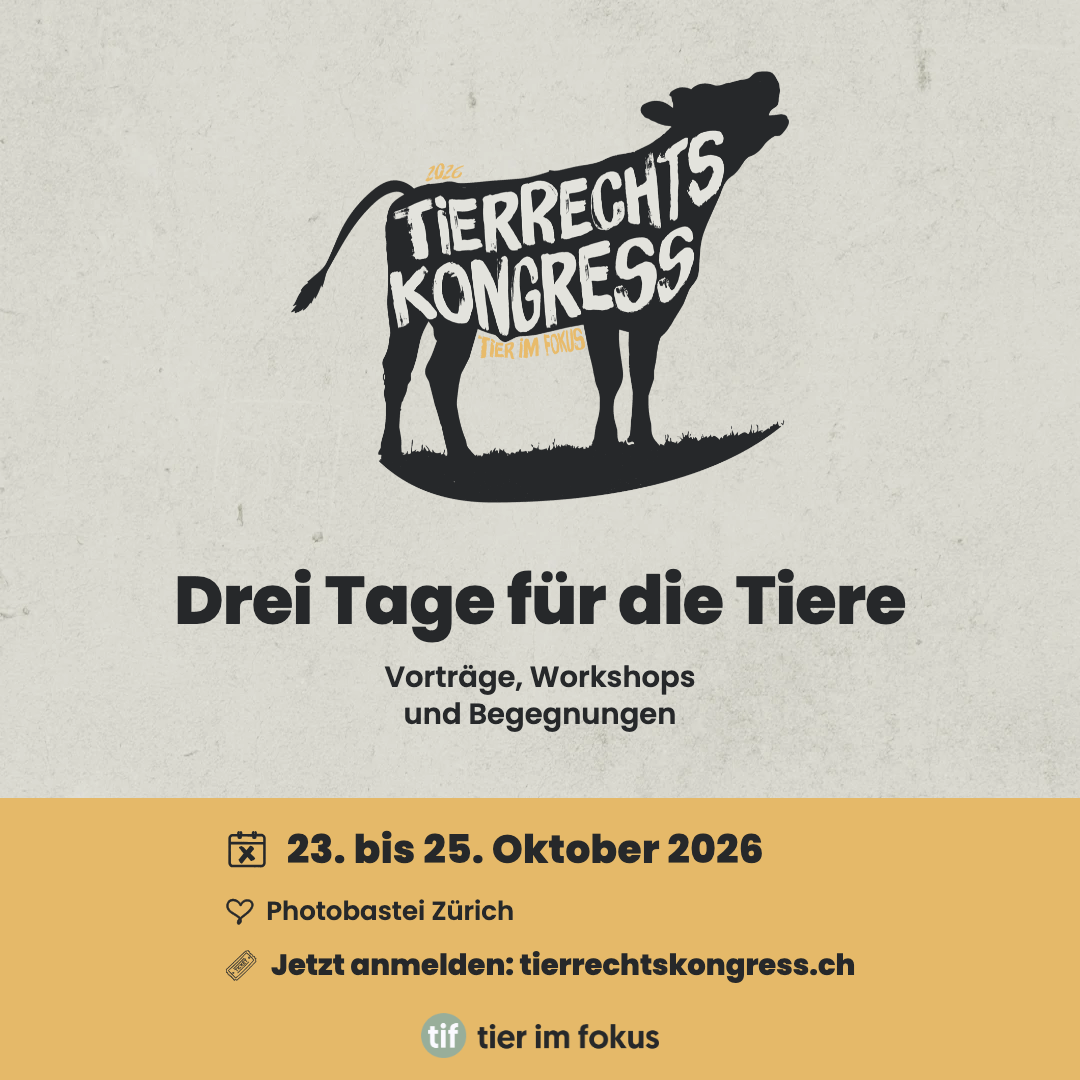
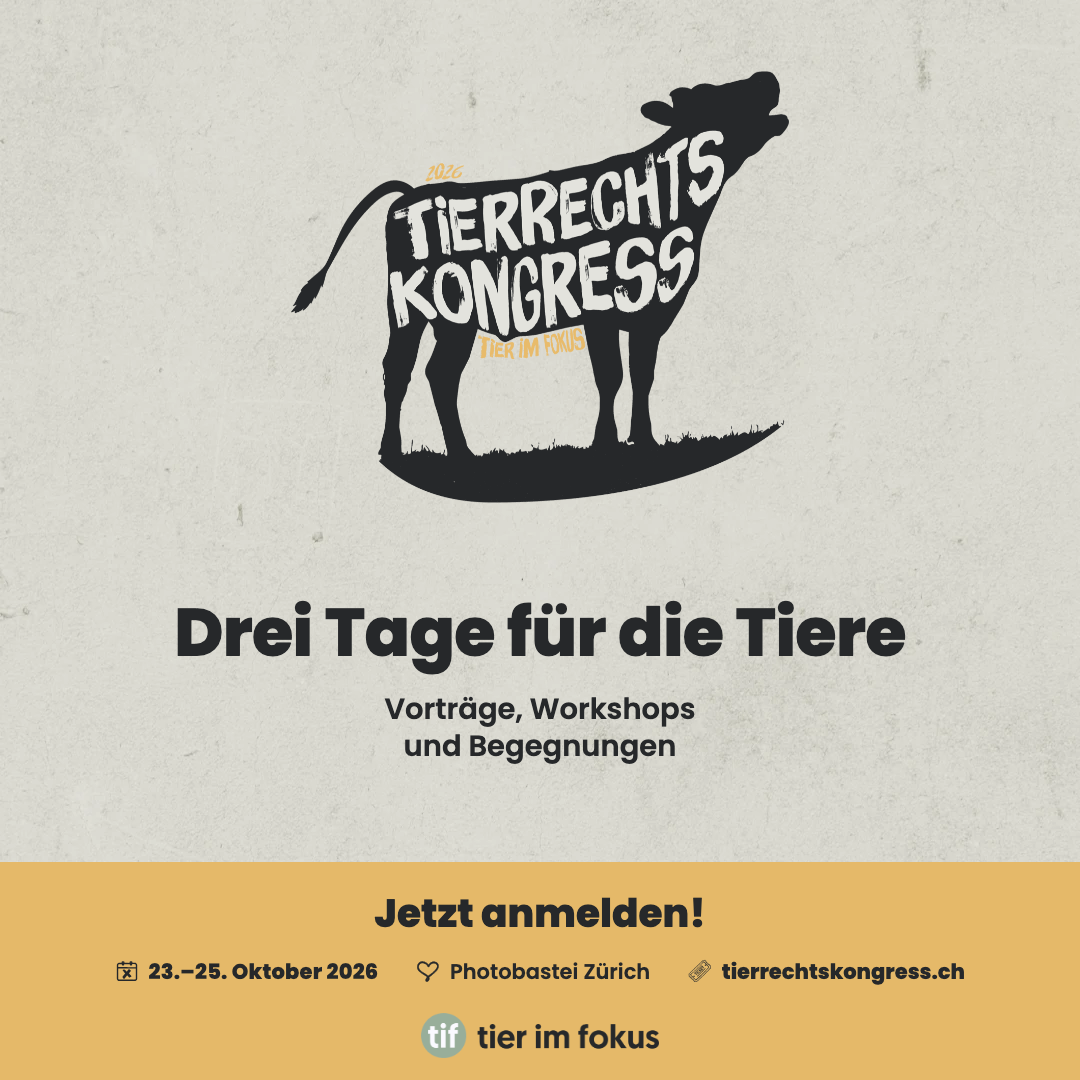
sharepics: Datum, Ort und Adresse nebeneinander im Fussbalken (Story bleibt gestapelt)

Changed region(s): [[0.0, 0.7333, 1.0, 0.9167], [0.1528, 0.5194, 0.8556, 0.7028]]

diff --git a/scripts/sharepics/template.html b/scripts/sharepics/template.html
@@ -88,14 +88,37 @@
     gap: __BARGAP__px;
   }
 
-  /* Die Zeilen stehen linksbündig untereinander, der Block als Ganzes mittig —
-     so fluchten die Icons, ohne dass der Text zerfranst wirkt. */
+  .bar__cta {
+    font-weight: 800;
+    font-size: __DATESIZE__px;
+    text-align: center;
+  }
+
+  /* Untereinander (Klasse «stapel») oder nebeneinander (Klasse «reihe»).
+     Gesteuert über SHAREPIC_BAR in build.py. */
   .bar__lines {
     list-style: none;
     display: flex;
-    flex-direction: column;
-    align-items: flex-start;
     gap: __BARGAP__px;
+  }
+
+  .bar__lines.stapel {
+    flex-direction: column;
+    align-items: flex-start;   /* Icons fluchten untereinander */
+  }
+
+  .bar__lines.reihe {
+    flex-direction: row;
+    align-items: center;
+    justify-content: center;
+    gap: __REIHEGAP__px;
+    font-size: __REIHESIZE__px;
+  }
+
+  .bar__lines.reihe .bar__line--date,
+  .bar__lines.reihe .bar__line--place,
+  .bar__lines.reihe .bar__line--cta {
+    font-size: inherit;
   }
 
   .bar__line {
@@ -154,10 +177,11 @@
     </div>
 
     <div class="card__bar">
-      <ul class="bar__lines">
+      <p class="bar__cta">Jetzt anmelden!</p>
+      <ul class="bar__lines __BARMOD__">
         <li class="bar__line bar__line--date">
           <span class="ico" style="--i: url('../../public/images/Tag.svg')"></span>
-          <span>23. bis 25. Oktober 2026</span>
+          <span>23.–25. Oktober 2026</span>
         </li>
         <li class="bar__line bar__line--place">
           <span class="ico" style="--i: url('../../public/images/Location.svg')"></span>
@@ -165,7 +189,7 @@
         </li>
         <li class="bar__line bar__line--cta">
           <span class="ico" style="--i: url('../../public/images/Ticket.svg')"></span>
-          <span>Jetzt anmelden: tierrechtskongress.ch</span>
+          <span>tierrechtskongress.ch</span>
         </li>
       </ul>
       <img class="card__tif" src="../../public/images/tif-logo-dark.png"

diff --git a/scripts/sharepics/build.py b/scripts/sharepics/build.py
@@ -12,6 +12,7 @@ Open-Graph-Bild (scripts/og-image/), nur automatisiert. Poppins kommt von
 Google Fonts, der Rechner muss also online sein.
 """
 
+import os
 import pathlib
 import shutil
 import subprocess
@@ -19,9 +20,19 @@ import sys
 import tempfile
 
 CHROME = "/Applications/Google Chrome.app/Contents/MacOS/Google Chrome"
+
+# Fussbalken: "reihe" = Datum, Ort und Adresse nebeneinander,
+#             "stapel" = untereinander (Icons fluchten, Schrift deutlich grösser).
+# Die Reihe passt nur in breite Formate — ihre Schriftgrösse hängt allein an der
+# Bildbreite, in der Story (9:16) wäre sie verloren klein. Deshalb dort gestapelt.
+# Mit SHAREPIC_BAR=reihe|stapel lässt sich das für alle Formate erzwingen.
+BALKEN = os.environ.get("SHAREPIC_BAR")
+
+# Die drei Beschriftungen der Icon-Zeilen — bestimmen, wie klein die Reihe wird.
+REIHE_TEXTE = "23.–25. Oktober 2026" "Photobastei Zürich" "tierrechtskongress.ch"
 ROOT = pathlib.Path(__file__).resolve().parents[2]
 TEMPLATE = ROOT / "scripts" / "sharepics" / "template.html"
-OUT_DIR = ROOT / "public" / "images" / "social"
+OUT_DIR = pathlib.Path(os.environ.get("SHAREPIC_OUT", ROOT / "public" / "images" / "social"))
 
 # Motive: Dateiname-Teil, Headline breit, Headline für Hochformate, Unterzeile.
 # In Hochformaten wird die Headline umbrochen — zweizeilig darf sie viel grösser
@@ -74,6 +85,14 @@ def masse(width: int, height: int) -> dict:
         "__SUBGAP__": round(height * 0.02),
         "__BARPAD__": round(height * 0.020),
         "__BARGAP__": round(height * 0.012),
+        "__BARMOD__": BALKEN or ("stapel" if height / width >= 1.5 else "reihe"),
+        "__REIHEGAP__": round(width * 0.035),
+        # Nebeneinander muss alles in eine Zeile passen: Zeichen plus drei Icons
+        # (je 1.15 em), drei Icon-Abstände (0.4 em) und zwei Gruppenabstände.
+        "__REIHESIZE__": round(
+            (width - 2 * pad - 2 * round(width * 0.035))
+            / (len(REIHE_TEXTE) * ZEICHENBREITE + 3 * 1.15 + 3 * 0.4)
+        ),
         "__DATESIZE__": round(height * 0.036),
         "__PLACESIZE__": round(height * 0.024),
         # Die Anmeldezeile ist die längste im Balken — Grad aus der Satzbreite
@@ -130,7 +149,11 @@ def main() -> int:
             ziel = OUT_DIR / f"trk26-{motiv}-{fmt}.png"
             rendern(html, ziel, width, height)
             kb = ziel.stat().st_size // 1024
-            print(f"{ziel.relative_to(ROOT)}  ({width}×{height}, {kb} KB)")
+            try:
+                name = ziel.relative_to(ROOT)
+            except ValueError:      # Ausgabe ausserhalb des Repos (SHAREPIC_OUT)
+                name = ziel
+            print(f"{name}  ({width}×{height}, {kb} KB)")
 
     return 0
 

diff --git a/scripts/sharepics/README.md b/scripts/sharepics/README.md
@@ -37,6 +37,22 @@ auf 40 % der Bildhöhe gedeckelt — ohne diesen Deckel schöbe es den gelben Ba
 Bild, das `overflow: hidden` schnitte dann die Adresse ab. Nach Textänderungen also kurz
 alle drei Formate anschauen.
 
+## Fussbalken: Reihe oder Stapel
+
+Im Balken stehen «Jetzt anmelden!», darunter Datum, Ort und Adresse mit Icons.
+Diese drei stehen **nebeneinander** (Klasse `reihe`) in 1:1 und 4:5 und
+**untereinander** (Klasse `stapel`, Icons fluchten, Schrift viel grösser) in der Story.
+Grund: Die Schriftgrösse der Reihe hängt allein an der Bildbreite — in einem 9:16-Bild
+wäre sie verloren klein. Erzwingen lässt sich beides:
+
+```bash
+SHAREPIC_BAR=stapel python3 scripts/sharepics/build.py
+SHAREPIC_BAR=reihe  python3 scripts/sharepics/build.py
+```
+
+Zum Vergleichen, ohne die Live-Dateien anzufassen:
+`SHAREPIC_OUT=/tmp/vergleich python3 scripts/sharepics/build.py`
+
 ## Icons im Fussbalken
 
 Die drei Zeilen im gelben Balken tragen Icons aus dem Website-Bestand:
